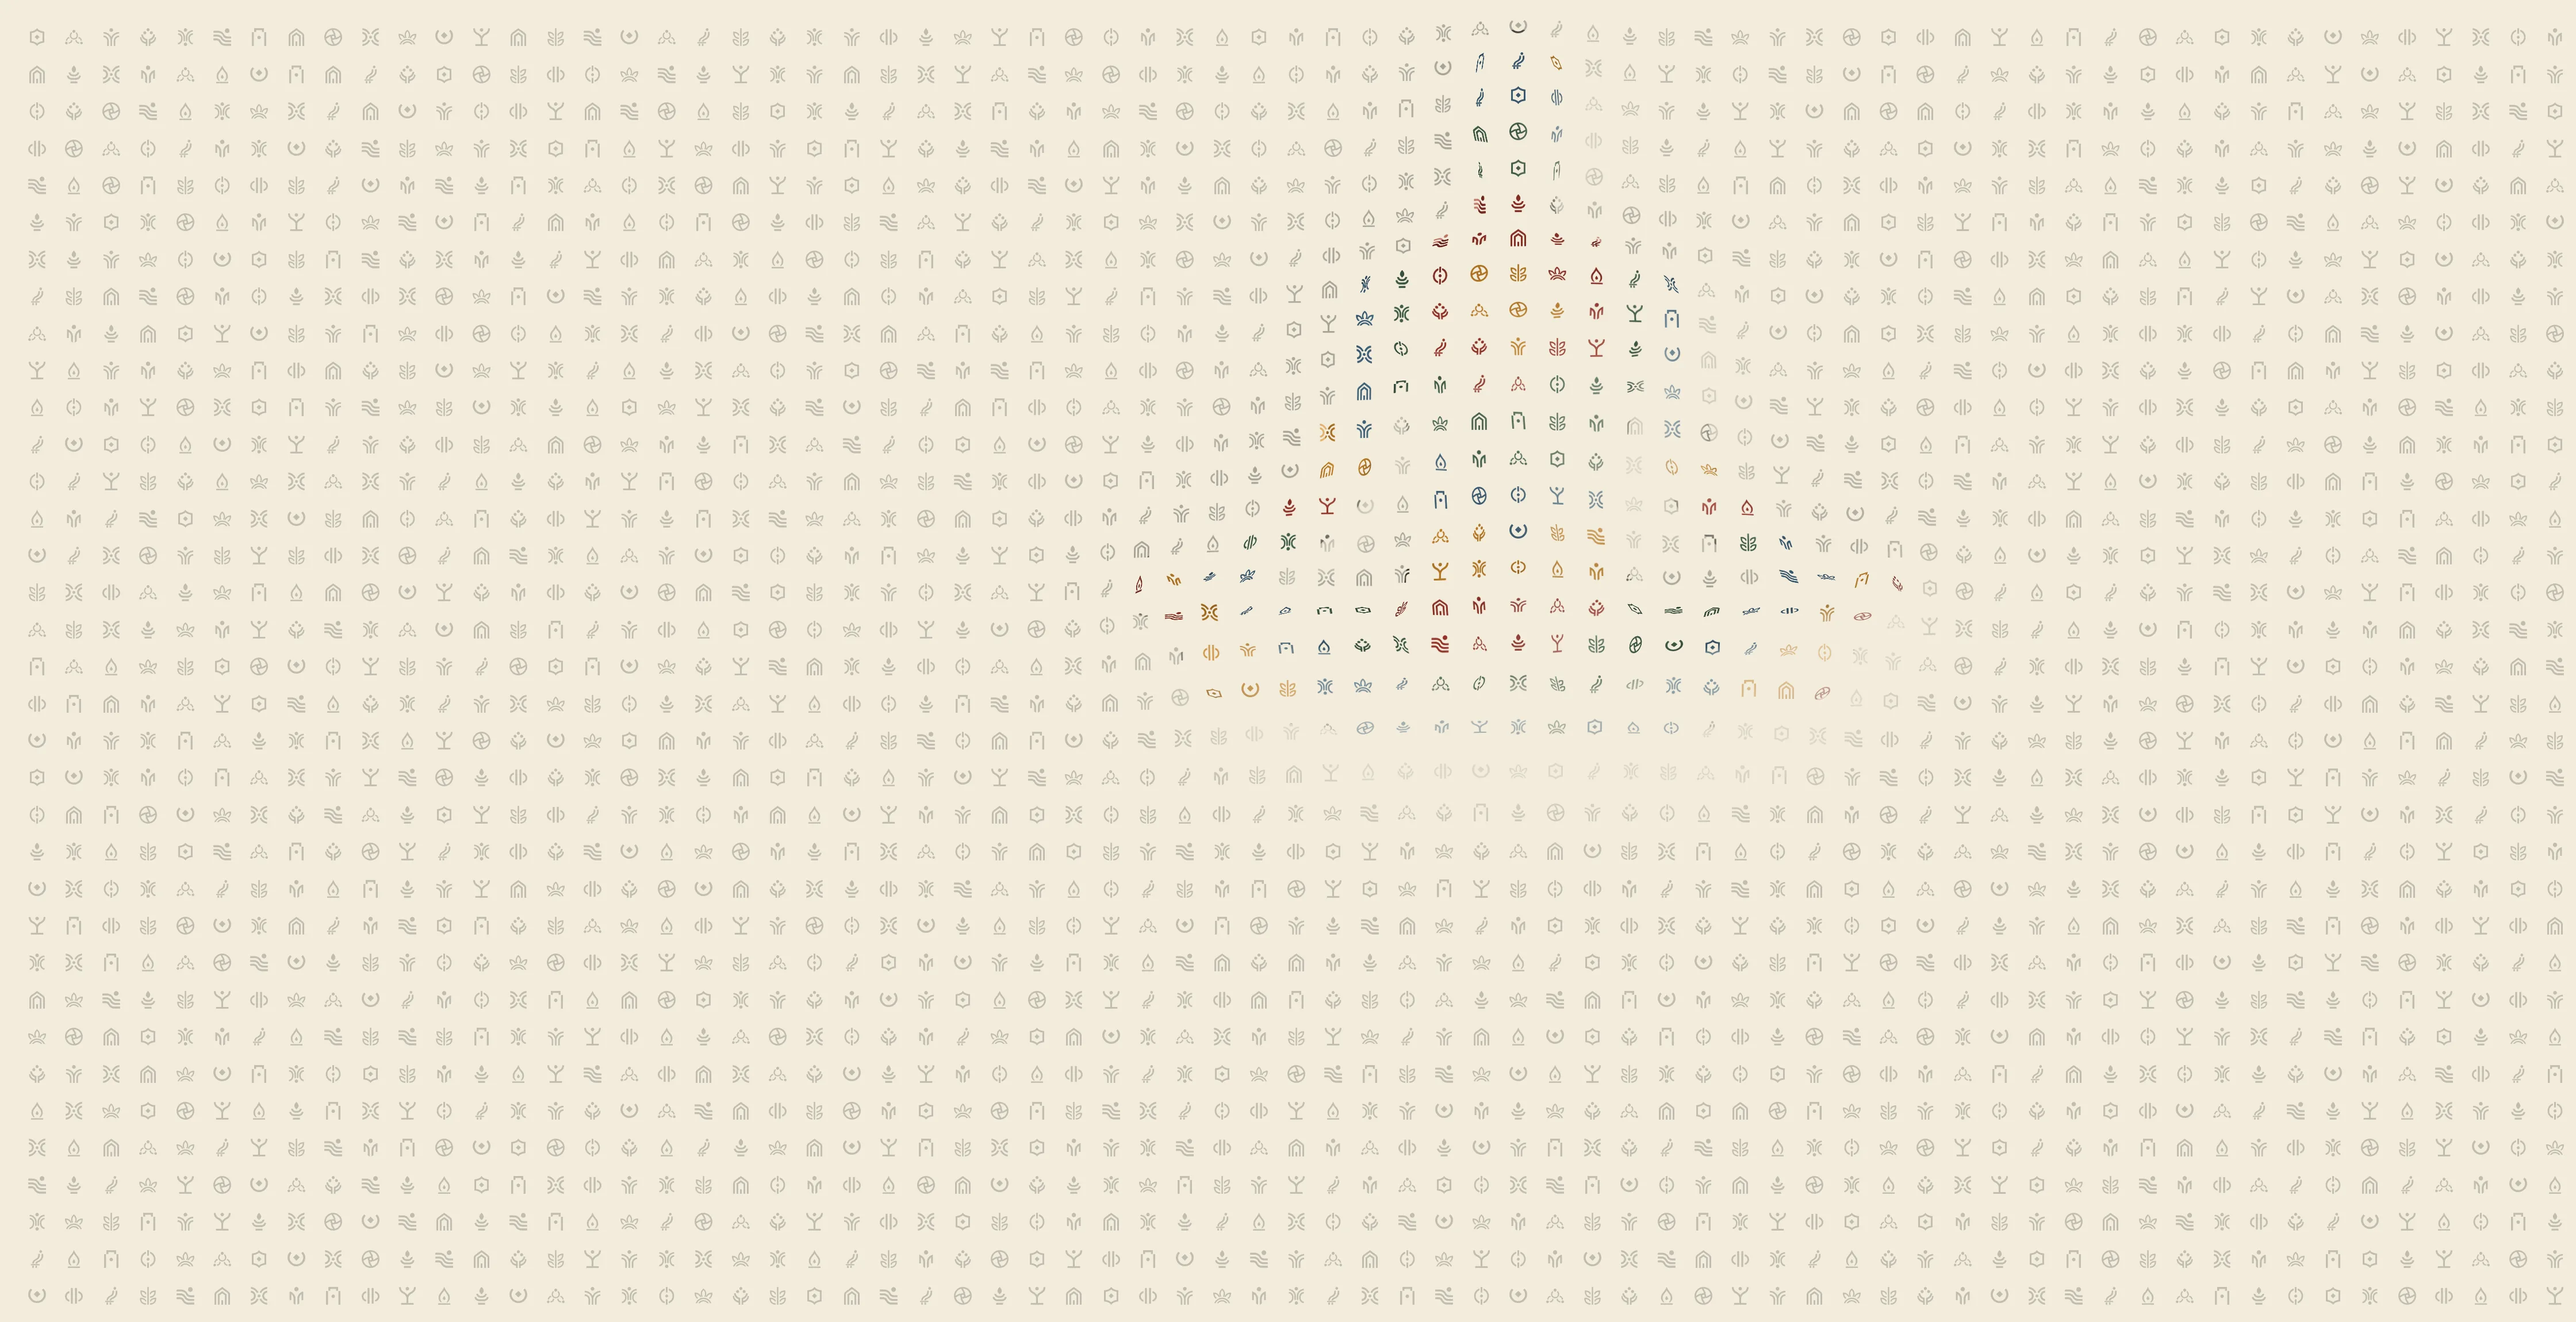
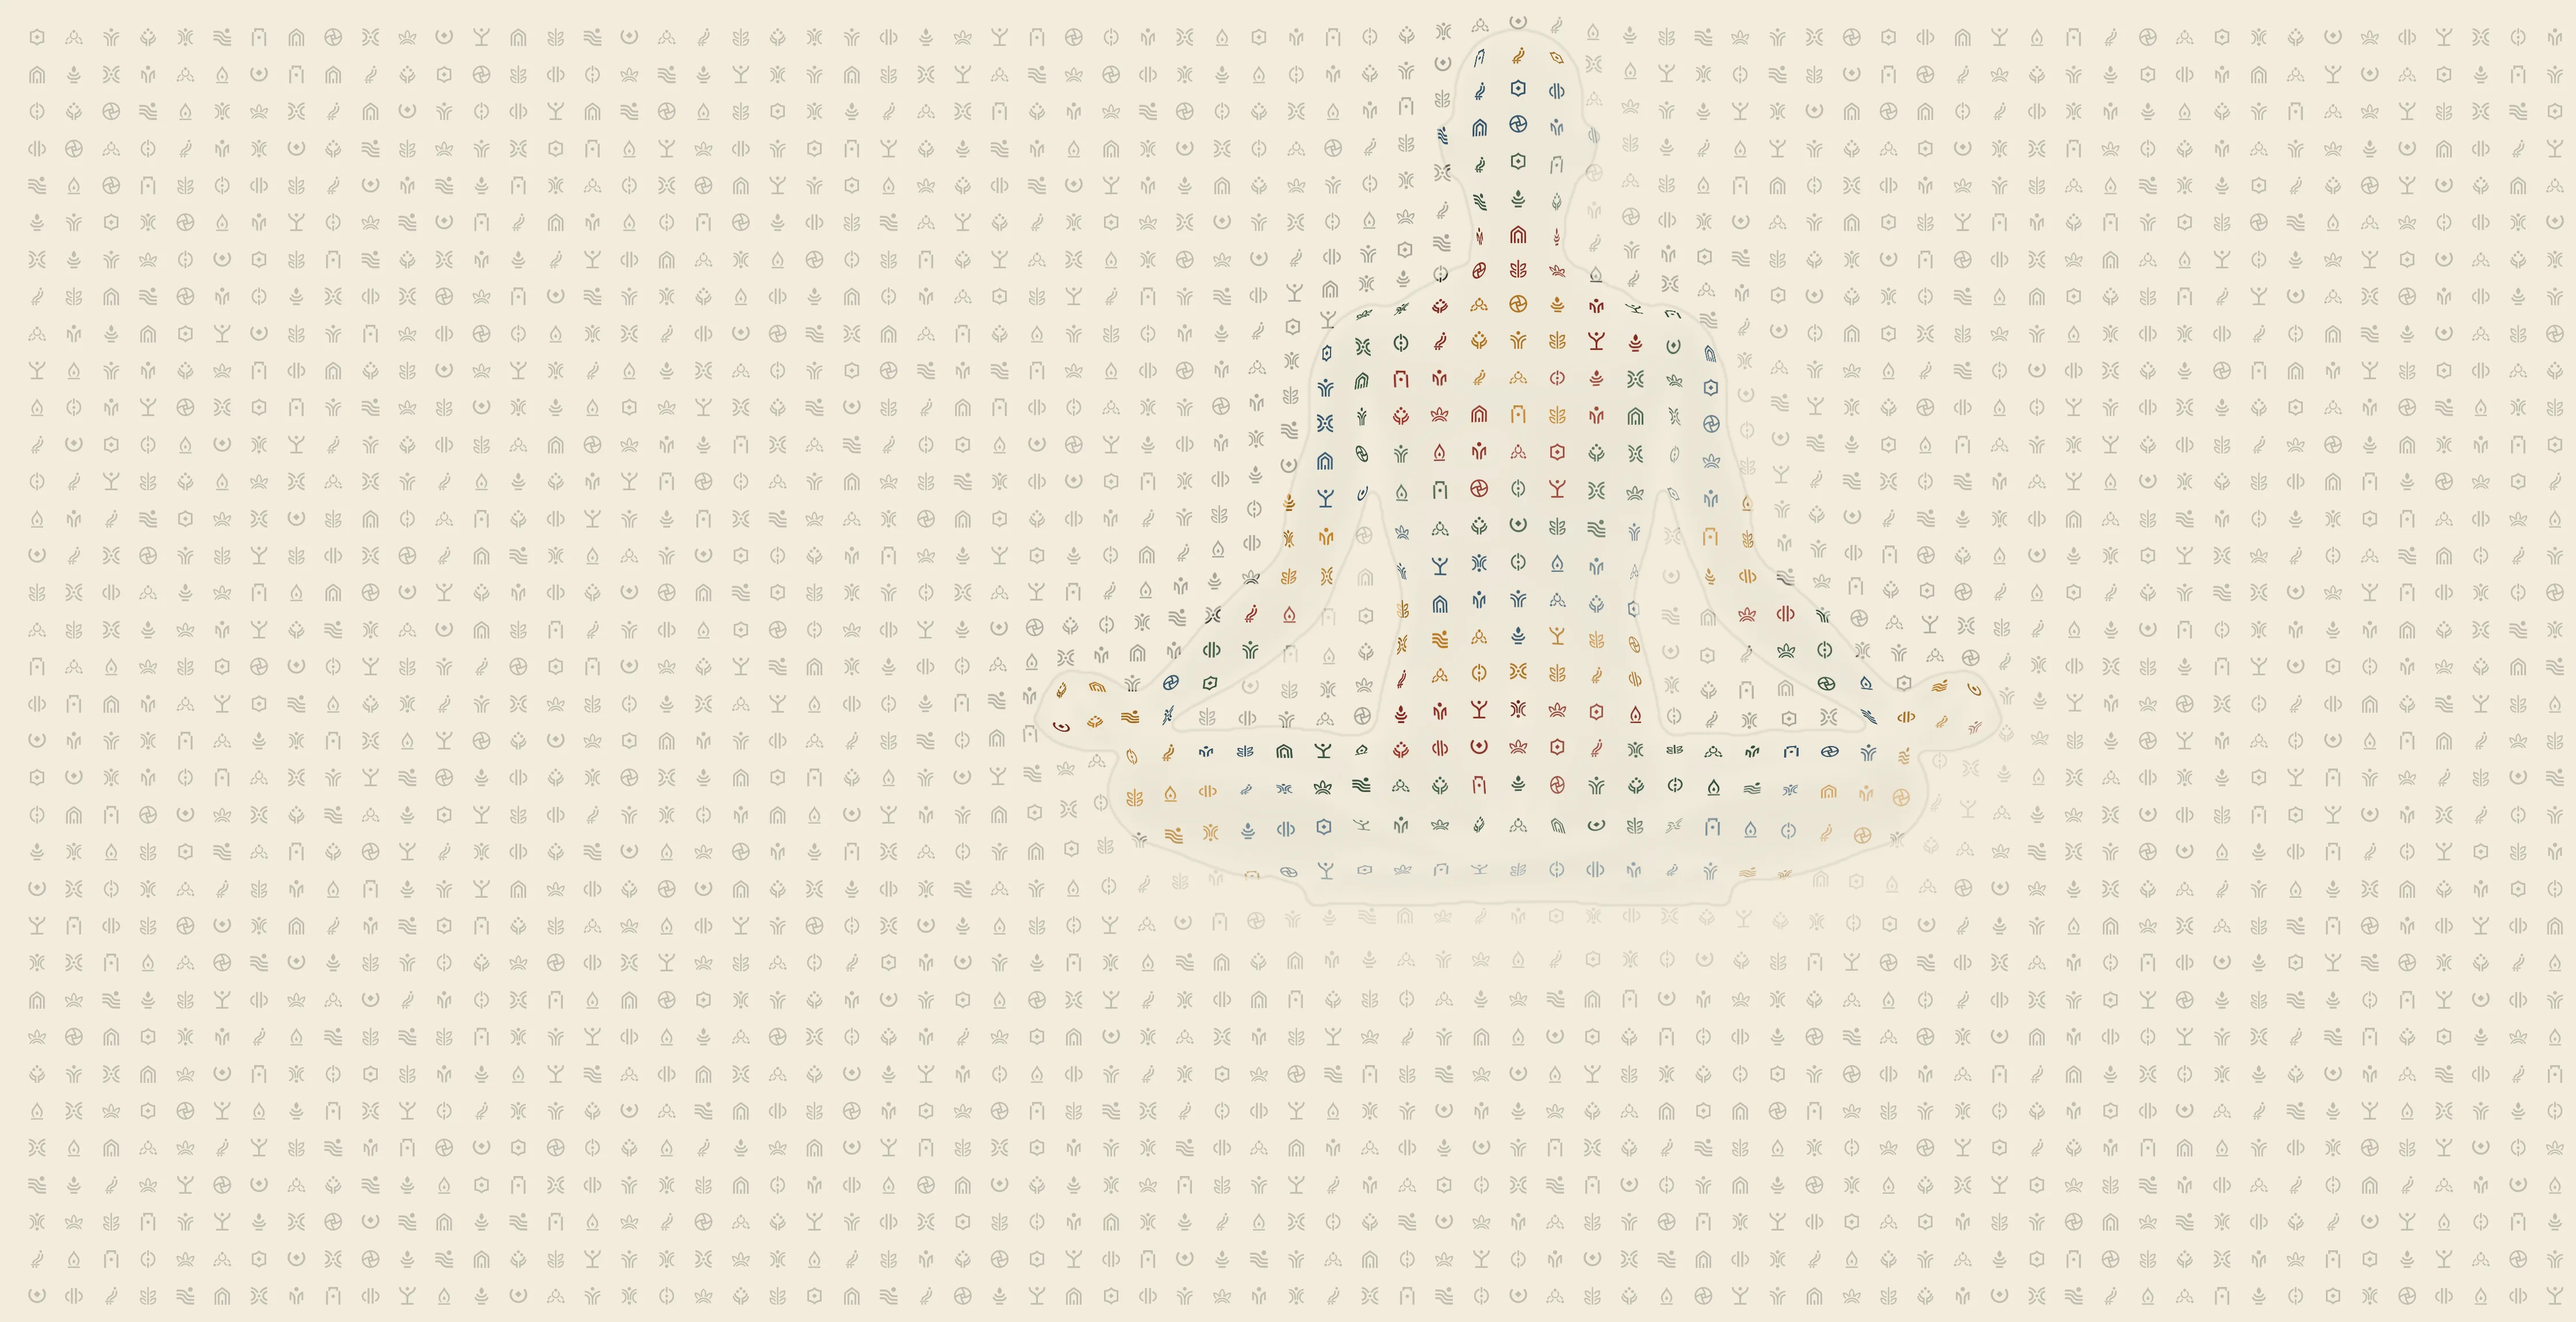
Hero figure: 22% larger for detail, faint outline and body shading; curve ends further left (local trial)
Claude-Session: https://claude.ai/code/session_01Faxypstm6H8yAswypDCHBa

Changed region(s): [[0.375, 0.0617, 0.7812, 0.6791]]

diff --git a/app/lanes-home.css b/app/lanes-home.css
@@ -261,8 +261,8 @@
      1200) and placed against the stage, so the shape keeps its place beside the copy at every width; it is intersected
      with the fade towards the next section. The field box sits at min(100vw,1280px) − 140 px − 1553.76 units. */
   .field-guide .ln-art .ln-field{
-    -webkit-mask-image:url('/brand/home/hero-field-shape.svg'),linear-gradient(#000 62%,transparent 81%);
-    mask-image:url('/brand/home/hero-field-shape.svg'),linear-gradient(#000 62%,transparent 81%);
+    -webkit-mask-image:url('/brand/home/hero-field-shape.svg'),linear-gradient(#000 70%,transparent 87%);
+    mask-image:url('/brand/home/hero-field-shape.svg'),linear-gradient(#000 70%,transparent 87%);
     -webkit-mask-size:calc(3200 * var(--u)) calc(1250 * var(--u)),100% 100%;mask-size:calc(3200 * var(--u)) calc(1250 * var(--u)),100% 100%;
     -webkit-mask-position:calc(853.76 * var(--u) + 140px - min(100vw,1280px)) calc(-50 * var(--u)),0 0;mask-position:calc(853.76 * var(--u) + 140px - min(100vw,1280px)) calc(-50 * var(--u)),0 0;
     -webkit-mask-repeat:no-repeat;mask-repeat:no-repeat;-webkit-mask-composite:source-in;mask-composite:intersect}

diff --git a/scripts/hero-glyph-field.py b/scripts/hero-glyph-field.py
@@ -21,7 +21,7 @@ QUALITY=82
 # ── Settings ────────────────────────────────────────────────────────────────────────────────────────────────
 S=2                       # px per stage unit
 XL,WU,HU=-480,2240,1150   # image extent in stage units (overhangs both sides for wide screens)
-CX,TOP,HT=840,26,624      # figure: centre x, top of head, height (Nov 15: +20%, was 520)
+CX,TOP,HT=840,26,760      # figure: centre x, top of head, height (Nov 15: +20%, was 520)
 SP,GS=32.2,17.5           # glyph grid pitch and glyph size (Nov 15: +20%, was 16.5, 9.75)
 DTOP_OFFSET=72            # dispersal starts this far above the seat line (TOP+HT)
 DBOT=1100                 # dispersal ends here (just above the phase boxes, which start at 1110)
@@ -32,15 +32,15 @@ FIG_STRENGTH=0.35         # how far the figure stands out from the field (0 = in
 FIG_COLOUR_BOOST=1.5      # extra ink for the figure's coloured glyphs
 GAIN=1.6                  # overall darkness of the field
 RAIN_ALPHA=0.75           # opacity of the falling coloured glyphs
-RING=41                   # width of each colour ring around the heart
-CROWN=96                  # no clay within this many units of the top of the head
+RING=50                   # width of each colour ring around the heart
+CROWN=117                 # no clay within this many units of the top of the head
 SEED=7
 # Relief (Nov 17, after Dat's dark reference): the figure is a raised surface under the grid. Every glyph, field and
 # figure alike, is shifted by that surface, so rows arch up over the body and fold at its edges, like a grid draped
 # over it; light from the top left shades the slopes. Glyph sizes never change, and figure membership is tested at
 # each glyph's shifted position, so the outline stays exact.
 RELIEF_SOFT=44            # softness of the surface's edge (units): smaller = sharper fold at the outline
-RELIEF_LIFT=24            # how far the grid lifts over the body (units, upwards)
+RELIEF_LIFT=30            # how far the grid lifts over the body (units, upwards)
 RELIEF_SWELL=0.07         # how much the grid widens over the body, from its centre line (share of the distance)
 RELIEF_FOLD=0             # extra pull of the grid into the edge (units): rows bunch at the outline
 EMBOSS=0.55               # light and shadow on the slopes (0 = none)
@@ -49,12 +49,17 @@ EMBOSS=0.55               # light and shadow on the slopes (0 = none)
 # far the surface turns away from the viewer (foreshortening) and tilted with it: full size on the flat parts, thin
 # slivers at the outline. Field glyphs stay flat.
 GLYPH_3D=True             # Nov 17 trial, off: set True to bend the figure glyphs (not on the site yet)
-BODY_ROUND=95             # how far in from the outline the body rounds over (units): larger = rounder, more squashing
+BODY_ROUND=90             # how far in from the outline the body rounds over (units): larger = rounder, more squashing
 BODY_FORM=0.45            # how much the shading map shapes the inner forms (arms, legs)
 SQUASH_MIN=0.18           # thinnest a glyph gets at the outline (share of its width)
 TILT=0.22                 # extra shear of a glyph along the slope (0 = squash only)
 SKIRT=34                  # the sheet slopes down from the body into the field over this distance (units): field glyphs
 SKIRT_DROP=0.55           #   there squash and tilt too; SKIRT_DROP is the slope at the outline relative to the body's edge
+# Figure definition (Nov 17): a very faint ink outline along the silhouette, and soft shading of the body itself from the
+# shading map (darker where the form turns away), so the shape reads between the glyphs.
+OUTLINE=0.09              # strength of the outline (0..1 of ink)
+OUTLINE_W=1.4             # its width (units)
+BODY_SHADE=0.05           # strength of the body shading (0..1 of ink)
 # Figure clarity (Nov 16): colour only inside the figure (FIELD_COLOUR 0), a quiet halo of lighter glyphs just outside
 # the outline, the figure's shading carried by glyph strength, and the grid centred on the figure's axis.
 HALO=30                   # width of the halo outside the outline (units)
@@ -165,7 +170,13 @@ amt=np.where(FG,A*(SHADE_MIN+(1-SHADE_MIN)*sh),amt)
 CI=np.where(FG[...,None],CI*(1-SHADE_DARK*sh[...,None]),CI)
 # Emboss: slopes facing the light (top left) get lighter glyphs, slopes facing away darker ones.
 lit=-(hx*-0.55+hy*-0.83)/gmax; amt=np.clip(amt*(1+EMBOSS*np.clip(lit*2.2,-1,1)),0,1)
-c=BONE+amt[...,None]*(CI-BONE)
+INKC=np.array([30,29,26.])
+bod=nd.gaussian_filter(Mf,1.5*S)*(1-np.clip(Bf,0,1))**1.2                    # deeper tone = more shade
+dline=np.abs(nd.distance_transform_edt(Mf>0.5)-nd.distance_transform_edt(Mf<=0.5))/S
+line=np.exp(-(dline/OUTLINE_W)**2)
+under=np.clip(BODY_SHADE*bod+OUTLINE*line,0,1)
+BG=BONE[None,None,:]+under[...,None]*(INKC-BONE)                               # the paper under the glyphs
+c=BG+amt[...,None]*(CI-BG)
 colr=Cg/np.maximum(Cw[...,None],1e-3); a=Cw*RAIN_ALPHA; c=c*(1-a[...,None])+colr*a[...,None]
 im=Image.fromarray(c.round().clip(0,255).astype(np.uint8))
 im.save(OUT,quality=QUALITY,method=6); print(OUT, im.size, os.path.getsize(OUT),'bytes')

diff --git a/docs/edit-ledger.md b/docs/edit-ledger.md
@@ -741,3 +741,12 @@ commits. Hashes below were backfilled for commits made before the ledger existed
 - The edge is tighter and cleaner: less roughening and a narrower feather (`hero-field-shape.svg`).
 - Provisional: committed locally only. Dat asked not to push until he says so.
 - Why: Dat, Nov 17 ("how about one smooth curve instead of steps?").
+
+### 2026-11-17 · Hero figure: larger for more detail; faint outline and body shading; curve ends further left (local, not pushed) (`home-04-lanes` only)
+- The figure is 22% larger (`HT` 624 → 760 units) with the glyphs unchanged in size, so about half again as many glyphs draw it. The neck, hands and knees read again. The head stays under the Resources / Media gap.
+  - The color rings, crown and 3D settings are scaled to match: `RING` 50, `CROWN` 117, `BODY_ROUND` 90, `RELIEF_LIFT` 30.
+- A very faint ink outline traces the silhouette (`OUTLINE` 0.09, `OUTLINE_W` 1.4 units). Soft shading inside the body follows its shading map (`BODY_SHADE` 0.05), so the form reads between the glyphs.
+- The waterfall curve now ends further left, sweeping off the page past the left margin.
+- The field's fade into the next section moves down (70% → 87% of the field, was 62% → 81%) so it doesn't cut into the larger figure's base. As a result, faint glyphs now reach behind "REALIZATION AS A FITNESS".
+- Provisional: committed locally only. Dat asked not to push until he says so.
+- Why: Dat, Nov 17.
